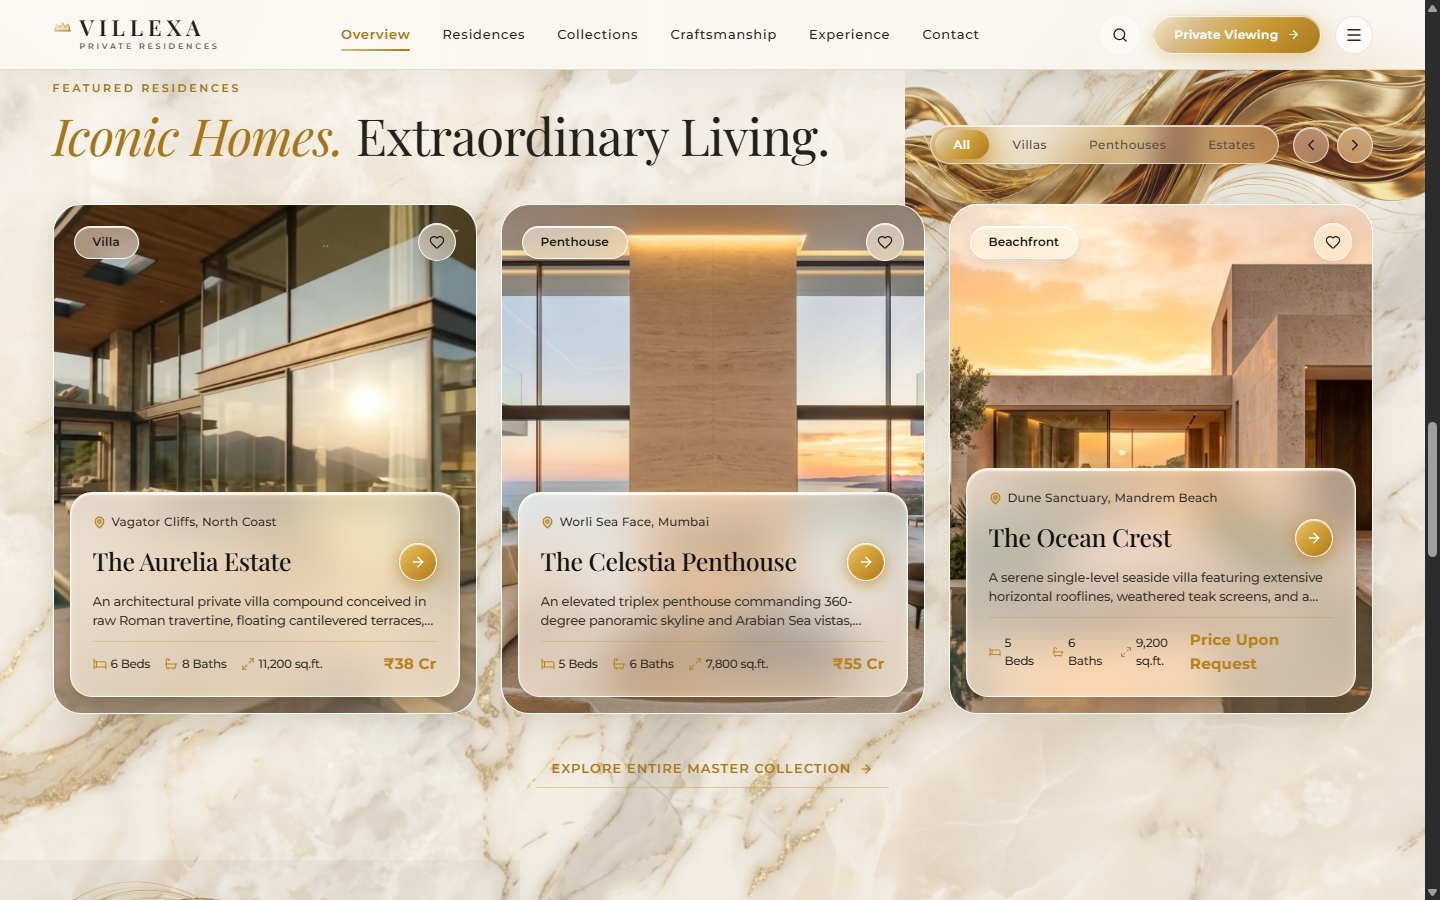
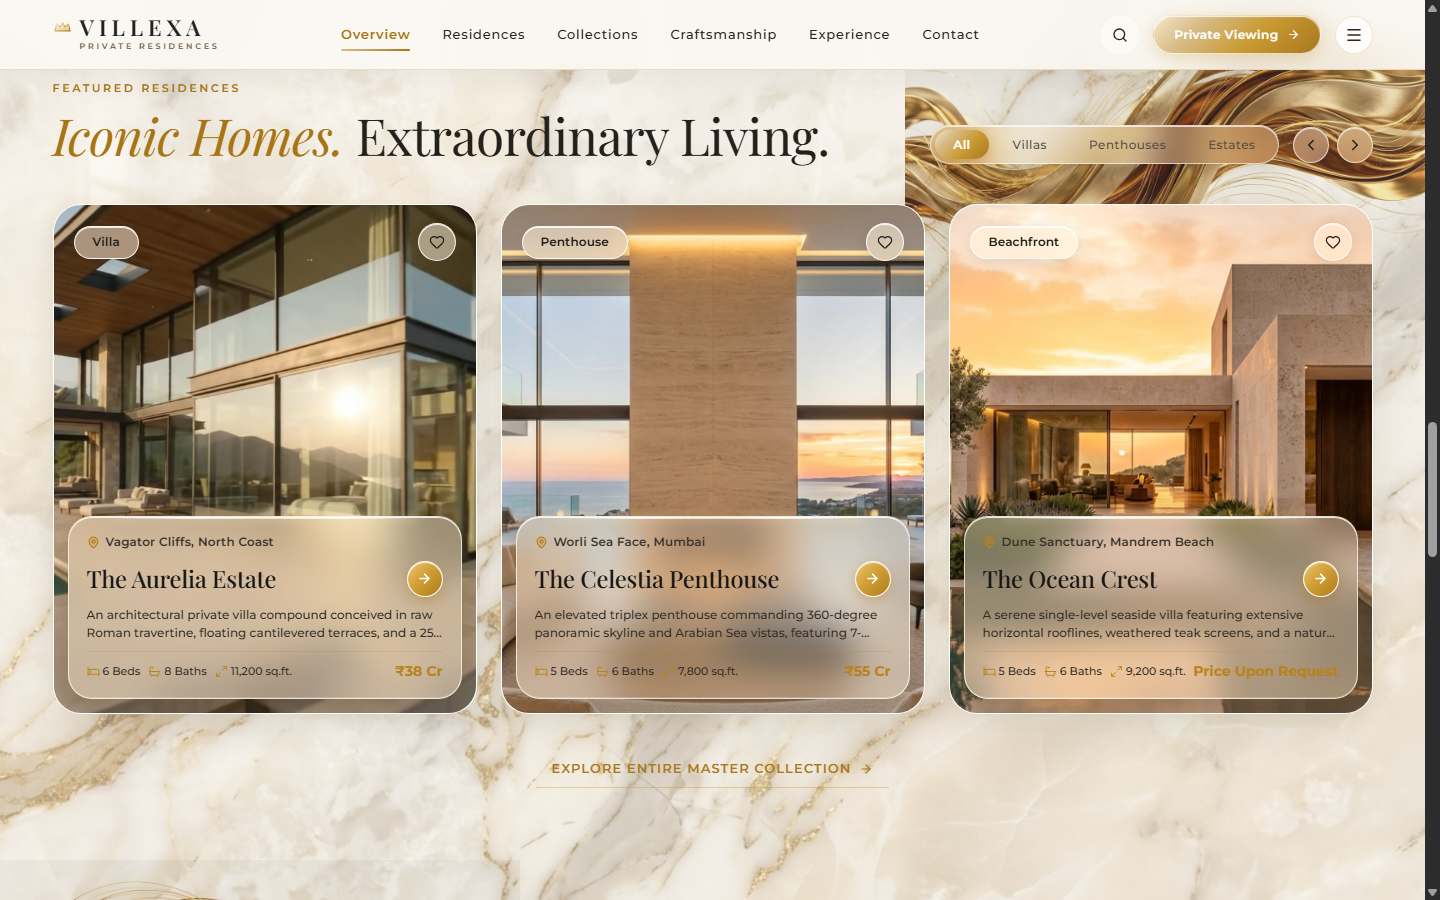
Update

Changed region(s): [[0.0312, 0.2178, 0.9688, 0.8089], [0.0312, 0.2178, 0.0938, 0.28]]

diff --git a/src/components/property/PropertyCard.tsx b/src/components/property/PropertyCard.tsx
@@ -237,29 +237,29 @@ export const PropertyCard: React.FC<PropertyCardProps> = ({ property, priority =
 
       {/* 3. FLOATING GLASS INFORMATION PANEL (Elevated Physical Slab) */}
       <div
-        className="glass-panel-integrated floating-glass-panel"
+        className="property-glass-card glass-panel-integrated floating-glass-panel"
         style={{
           position: 'relative',
           zIndex: 3,
-          margin: '0 16px 16px 16px',
+          margin: '0 14px 14px 14px',
           marginTop: 'auto',
-          padding: '20px 22px',
+          padding: '16px 18px',
           display: 'flex',
           flexDirection: 'column',
-          gap: '11px',
-          borderRadius: '22px',
+          gap: '9px',
+          borderRadius: '24px',
           background: isHovered
-            ? 'linear-gradient(135deg, rgba(255, 255, 255, 0.78) 0%, rgba(255, 252, 244, 0.62) 50%, rgba(255, 248, 236, 0.72) 100%)'
-            : 'linear-gradient(135deg, rgba(255, 255, 255, 0.72) 0%, rgba(255, 252, 244, 0.54) 50%, rgba(255, 248, 236, 0.65) 100%)',
-          backdropFilter: 'blur(22px) saturate(170%)',
-          WebkitBackdropFilter: 'blur(22px) saturate(170%)',
+            ? 'rgba(246, 239, 224, 0.44)'
+            : 'rgba(246, 239, 224, 0.38)',
+          backdropFilter: 'blur(18px) saturate(135%)',
+          WebkitBackdropFilter: 'blur(18px) saturate(135%)',
           border: isHovered
-            ? '1.2px solid rgba(255, 255, 255, 0.95)'
-            : '1px solid rgba(255, 255, 255, 0.82)',
-          transform: isHovered && !prefersReducedMotion ? 'translateY(-10px)' : 'translateY(0)',
+            ? '1px solid rgba(255, 255, 255, 0.90)'
+            : '1px solid rgba(255, 255, 255, 0.72)',
+          transform: isHovered && !prefersReducedMotion ? 'translateY(-6px)' : 'translateY(0)',
           boxShadow: isHovered
-            ? 'inset 0 1.5px 2px 0 rgba(255, 255, 255, 1), inset 0 0 16px 0 rgba(255, 240, 200, 0.35), 0 8px 18px -2px rgba(20, 16, 12, 0.18), 0 28px 56px -6px rgba(20, 16, 12, 0.28), 0 0 32px 2px rgba(212, 163, 59, 0.35)'
-            : 'inset 0 1.5px 2px 0 rgba(255, 255, 255, 0.95), inset 0 0 12px 0 rgba(255, 240, 200, 0.25), 0 4px 12px -2px rgba(20, 16, 12, 0.14), 0 18px 40px -4px rgba(20, 16, 12, 0.20), 0 0 24px 0 rgba(212, 163, 59, 0.22)',
+            ? '0 28px 65px rgba(48, 34, 19, 0.28), 0 10px 24px rgba(48, 34, 19, 0.14), 0 0 28px rgba(212, 163, 59, 0.22), inset 0 1px 0 rgba(255, 255, 255, 0.95), inset 0 -1px 0 rgba(255, 255, 255, 0.22)'
+            : '0 22px 55px rgba(48, 34, 19, 0.22), 0 6px 18px rgba(48, 34, 19, 0.10), 0 0 20px rgba(212, 163, 59, 0.14), inset 0 1px 0 rgba(255, 255, 255, 0.85), inset 0 -1px 0 rgba(255, 255, 255, 0.18)',
           transition: 'transform 0.4s cubic-bezier(0.16, 1, 0.3, 1), box-shadow 0.4s cubic-bezier(0.16, 1, 0.3, 1), border-color 0.35s ease, background 0.35s ease'
         }}
       >
@@ -268,13 +268,13 @@ export const PropertyCard: React.FC<PropertyCardProps> = ({ property, priority =
           style={{
             position: 'absolute',
             top: 0,
-            left: '8%',
-            right: '8%',
-            height: '2px',
-            background: 'linear-gradient(90deg, transparent, rgba(255, 255, 255, 0.98) 25%, #FFF0CD 50%, rgba(255, 255, 255, 0.98) 75%, transparent)',
+            left: '10%',
+            right: '10%',
+            height: '1.5px',
+            background: 'linear-gradient(90deg, transparent, rgba(255, 255, 255, 0.95) 25%, rgba(255, 245, 215, 0.9) 50%, rgba(255, 255, 255, 0.95) 75%, transparent)',
             pointerEvents: 'none',
-            boxShadow: '0 0 12px rgba(255, 240, 200, 0.85)',
-            opacity: isHovered ? 1 : 0.9,
+            boxShadow: '0 0 8px rgba(255, 245, 215, 0.65)',
+            opacity: isHovered ? 1 : 0.85,
             transition: 'opacity 0.35s ease'
           }}
         />
@@ -285,10 +285,10 @@ export const PropertyCard: React.FC<PropertyCardProps> = ({ property, priority =
             display: 'inline-flex',
             alignItems: 'center',
             gap: '6px',
-            color: '#2C2822',
+            color: '#36322C',
             fontSize: '11.5px',
             letterSpacing: '0.04em',
-            fontWeight: 500
+            fontWeight: 550
           }}
         >
           <MapPin size={13} strokeWidth={2.2} color="#B8831E" fill="#B8831E" fillOpacity={0.2} />
@@ -296,12 +296,12 @@ export const PropertyCard: React.FC<PropertyCardProps> = ({ property, priority =
         </div>
 
         {/* Property Name & Explore Arrow Row */}
-        <div style={{ display: 'flex', alignItems: 'center', justifyContent: 'space-between', gap: '10px' }}>
+        <div style={{ display: 'flex', alignItems: 'center', justifyContent: 'space-between', gap: '8px' }}>
           <h3
             style={{
-              fontSize: '1.55rem',
+              fontSize: 'clamp(1.3rem, 3.5vw, 1.48rem)',
               fontFamily: 'var(--font-serif)',
-              color: '#151311',
+              color: '#1A1816',
               fontWeight: 500,
               lineHeight: 1.15,
               margin: 0,
@@ -324,28 +324,33 @@ export const PropertyCard: React.FC<PropertyCardProps> = ({ property, priority =
               display: 'inline-flex',
               alignItems: 'center',
               justifyContent: 'center',
-              width: '38px',
-              height: '38px',
+              width: '36px',
+              height: '36px',
               borderRadius: '50%',
-              background: 'linear-gradient(135deg, #ECC876 0%, #D4A33B 40%, #B07A18 100%)',
+              background: isHovered
+                ? 'linear-gradient(135deg, #F3D285 0%, #E0B04A 40%, #BF8924 100%)'
+                : 'linear-gradient(135deg, #ECC876 0%, #D4A33B 40%, #B07A18 100%)',
               border: '1.5px solid rgba(255, 255, 255, 0.95)',
               color: '#FFFFFF',
-              boxShadow: 'inset 0 1px 1px rgba(255, 255, 255, 0.8), 0 4px 14px rgba(168, 117, 22, 0.45), 0 0 16px rgba(212, 163, 59, 0.40)',
+              boxShadow: isHovered
+                ? 'inset 0 1px 1px rgba(255, 255, 255, 0.9), 0 6px 18px rgba(168, 117, 22, 0.50), 0 0 16px rgba(212, 163, 59, 0.45)'
+                : 'inset 0 1px 1px rgba(255, 255, 255, 0.8), 0 4px 14px rgba(168, 117, 22, 0.40)',
+              filter: isHovered ? 'brightness(1.10)' : 'brightness(1)',
               flexShrink: 0,
-              transform: isHovered ? 'scale(1.06)' : 'scale(1)',
-              transition: 'transform 0.3s cubic-bezier(0.16, 1, 0.3, 1), box-shadow 0.3s ease'
+              transform: isHovered ? 'scale(1.05)' : 'scale(1)',
+              transition: 'transform 0.35s cubic-bezier(0.16, 1, 0.3, 1), box-shadow 0.35s ease, filter 0.35s ease'
             }}
           >
-            <ArrowRight size={16} strokeWidth={2.4} />
+            <ArrowRight size={15} strokeWidth={2.4} />
           </Link>
         </div>
 
         {/* Short Description */}
         <p
           style={{
-            fontSize: '12.5px',
-            color: '#38332C',
-            lineHeight: 1.55,
+            fontSize: '12px',
+            color: '#2E2A24',
+            lineHeight: 1.5,
             margin: 0,
             display: '-webkit-box',
             WebkitLineClamp: 2,
@@ -363,32 +368,42 @@ export const PropertyCard: React.FC<PropertyCardProps> = ({ property, priority =
             display: 'flex',
             alignItems: 'center',
             justifyContent: 'space-between',
-            paddingTop: '10px',
-            borderTop: '1px solid rgba(184, 131, 30, 0.25)',
-            fontSize: '11.5px',
-            color: '#2C2822',
-            fontWeight: 500
+            paddingTop: '9px',
+            borderTop: '1px solid rgba(184, 131, 30, 0.22)',
+            fontSize: '11px',
+            color: '#2E2A24',
+            fontWeight: 500,
+            gap: '8px'
           }}
         >
-          <div style={{ display: 'flex', alignItems: 'center', gap: '14px' }}>
-            <span style={{ display: 'inline-flex', alignItems: 'center', gap: '4px' }}>
-              <Bed size={14} strokeWidth={1.8} color="#B8831E" />
+          <div style={{ display: 'flex', alignItems: 'center', gap: '8px', minWidth: 0, flexWrap: 'nowrap' }}>
+            <span style={{ display: 'inline-flex', alignItems: 'center', gap: '3px', whiteSpace: 'nowrap' }}>
+              <Bed size={13} strokeWidth={1.8} color="#B8831E" />
               <span>{property.bedrooms} Beds</span>
             </span>
 
-            <span style={{ display: 'inline-flex', alignItems: 'center', gap: '4px' }}>
-              <Bath size={14} strokeWidth={1.8} color="#B8831E" />
+            <span style={{ display: 'inline-flex', alignItems: 'center', gap: '3px', whiteSpace: 'nowrap' }}>
+              <Bath size={13} strokeWidth={1.8} color="#B8831E" />
               <span>{property.bathrooms} Baths</span>
             </span>
 
-            <span style={{ display: 'inline-flex', alignItems: 'center', gap: '4px' }}>
-              <Maximize2 size={14} strokeWidth={1.8} color="#B8831E" />
+            <span style={{ display: 'inline-flex', alignItems: 'center', gap: '3px', whiteSpace: 'nowrap' }}>
+              <Maximize2 size={13} strokeWidth={1.8} color="#B8831E" />
               <span>{formattedArea}</span>
             </span>
           </div>
 
           {formattedPrice && (
-            <span style={{ fontWeight: 700, color: '#B8831E', letterSpacing: '0.02em', fontSize: '15px' }}>
+            <span
+              style={{
+                fontWeight: 700,
+                color: '#B8831E',
+                letterSpacing: '0.02em',
+                fontSize: '13.5px',
+                whiteSpace: 'nowrap',
+                flexShrink: 0
+              }}
+            >
               {formattedPrice}
             </span>
           )}

diff --git a/src/styles/main.css b/src/styles/main.css
@@ -585,37 +585,41 @@ a {
   }
 }
 
-/* 4. PROPERTY INFORMATION CARDS (Floating elevated glass plaque transmitting photography) */
+/* 4. PROPERTY INFORMATION CARDS (Floating elevated translucent glass plaque transmitting photography) */
+.property-glass-card,
 .glass-property-card,
 .glass-panel-integrated,
 .floating-glass-panel {
-  background: linear-gradient(135deg, rgba(255, 255, 255, 0.72) 0%, rgba(255, 252, 244, 0.54) 50%, rgba(255, 248, 236, 0.65) 100%);
-  backdrop-filter: blur(22px) saturate(170%);
-  -webkit-backdrop-filter: blur(22px) saturate(170%);
-  border: 1px solid rgba(255, 255, 255, 0.82);
-  border-radius: 22px;
+  background: rgba(246, 239, 224, 0.38);
+  backdrop-filter: blur(18px) saturate(135%);
+  -webkit-backdrop-filter: blur(18px) saturate(135%);
+
+  border: 1px solid rgba(255, 255, 255, 0.72);
+  border-radius: 26px;
+
   box-shadow:
-    inset 0 1.5px 2px 0 rgba(255, 255, 255, 0.95),
-    inset 0 0 12px 0 rgba(255, 240, 200, 0.25),
-    0 4px 12px -2px rgba(20, 16, 12, 0.14),
-    0 18px 40px -4px rgba(20, 16, 12, 0.20),
-    0 0 24px 0 rgba(212, 163, 59, 0.22);
-  color: #151311;
+    0 22px 55px rgba(48, 34, 19, 0.22),
+    0 6px 18px rgba(48, 34, 19, 0.10),
+    0 0 20px rgba(212, 163, 59, 0.14),
+    inset 0 1px 0 rgba(255, 255, 255, 0.85),
+    inset 0 -1px 0 rgba(255, 255, 255, 0.18);
+  color: #1E1C19;
   transition: transform 0.4s cubic-bezier(0.16, 1, 0.3, 1), box-shadow 0.4s cubic-bezier(0.16, 1, 0.3, 1), border-color 0.35s ease, background 0.35s ease;
 }
 
+.property-glass-card:hover,
 .glass-property-card:hover,
 .glass-panel-integrated:hover,
 .floating-glass-panel:hover {
-  transform: translateY(-10px);
-  background: linear-gradient(135deg, rgba(255, 255, 255, 0.78) 0%, rgba(255, 252, 244, 0.62) 50%, rgba(255, 248, 236, 0.72) 100%);
-  border-color: rgba(255, 255, 255, 0.95);
+  transform: translateY(-6px);
+  background: rgba(246, 239, 224, 0.44);
+  border-color: rgba(255, 255, 255, 0.90);
   box-shadow:
-    inset 0 2px 3px 0 rgba(255, 255, 255, 1),
-    inset 0 0 16px 0 rgba(255, 240, 200, 0.35),
-    0 8px 18px -2px rgba(20, 16, 12, 0.18),
-    0 28px 56px -6px rgba(20, 16, 12, 0.28),
-    0 0 32px 2px rgba(212, 163, 59, 0.35);
+    0 28px 65px rgba(48, 34, 19, 0.28),
+    0 10px 24px rgba(48, 34, 19, 0.14),
+    0 0 28px rgba(212, 163, 59, 0.22),
+    inset 0 1px 0 rgba(255, 255, 255, 0.95),
+    inset 0 -1px 0 rgba(255, 255, 255, 0.22);
 }
 
 /* 5. COLLECTION CARDS (Photo-backed cards with floating glass plaque) */

diff --git a/src/styles/tokens.css b/src/styles/tokens.css
@@ -123,10 +123,10 @@
   --glass-crystal-blur: 18px;
 
   /* 2. WARM CHAMPAGNE GLASS (Warm champagne tint, transparent surface, refined reflections) */
-  --glass-champagne-bg: rgba(255, 248, 238, 0.25);
-  --glass-champagne-border: rgba(255, 255, 255, 0.78);
-  --glass-champagne-highlight: inset 0 1.5px 2px 0 rgba(255, 255, 255, 0.95);
-  --glass-champagne-shadow: inset 0 1.5px 2px 0 rgba(255, 255, 255, 0.95), inset 0 0 12px 0 rgba(216, 189, 138, 0.15), 0 4px 10px -2px rgba(20, 16, 12, 0.16), 0 18px 40px -4px rgba(20, 16, 12, 0.26), 0 0 24px 0 rgba(201, 154, 50, 0.18);
+  --glass-champagne-bg: rgba(246, 239, 224, 0.38);
+  --glass-champagne-border: rgba(255, 255, 255, 0.72);
+  --glass-champagne-highlight: inset 0 1px 0 rgba(255, 255, 255, 0.85);
+  --glass-champagne-shadow: 0 22px 55px rgba(48, 34, 19, 0.22), 0 6px 18px rgba(48, 34, 19, 0.10), 0 0 20px rgba(212, 163, 59, 0.14), inset 0 1px 0 rgba(255, 255, 255, 0.85), inset 0 -1px 0 rgba(255, 255, 255, 0.18);
   --glass-champagne-blur: 18px;
 
   /* 3. GOLD-EDGE CRYSTAL GLASS (Transparent crystal glass with metallic-gold edge & specular highlights) */
